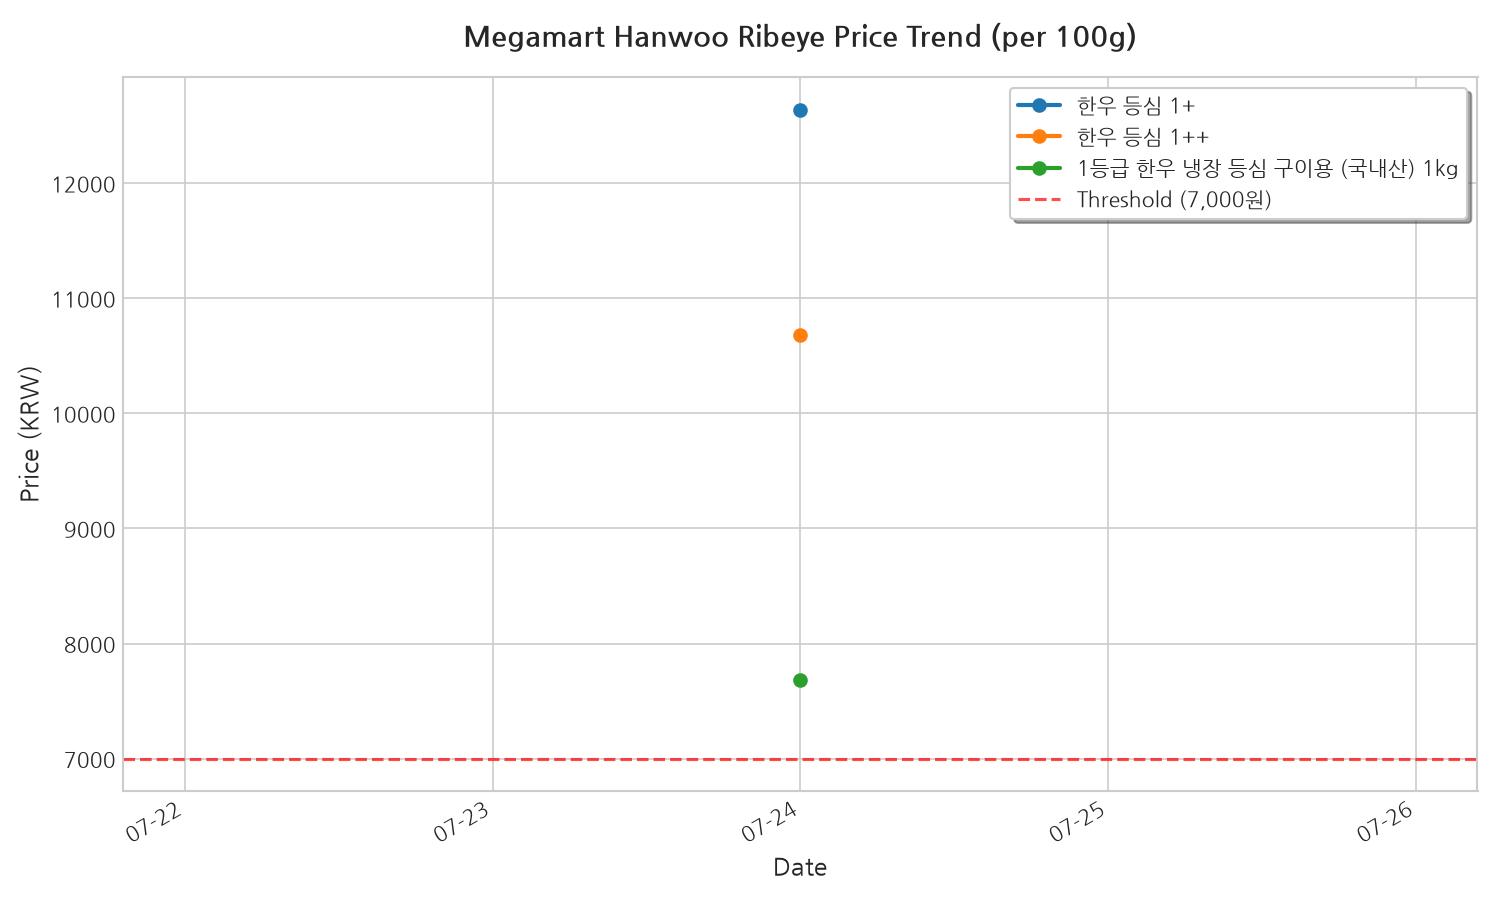
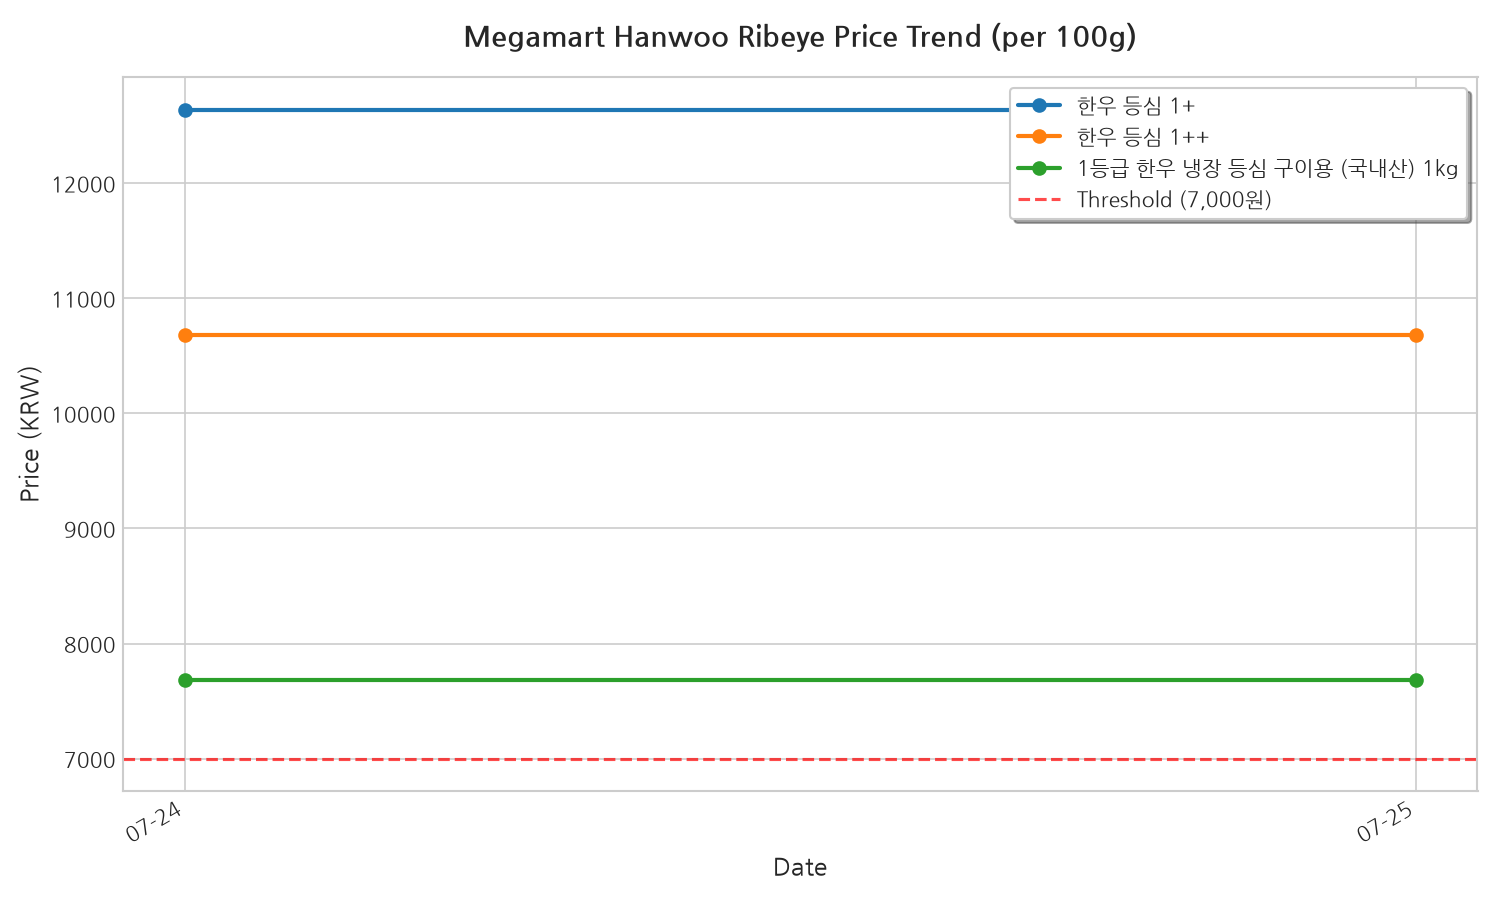
chore: Update price history and trend chart

diff --git a/dashboard.html b/dashboard.html
@@ -195,7 +195,7 @@
 
     <script>
         // Data injected by python script
-        const PRICE_DATA = [{"date": "2026-07-24", "product_name": "한우 등심 1+등급 구이용 (국내산) 100g", "price": 12640}, {"date": "2026-07-24", "product_name": "한우 등심 1++등급 구이용 (국내산) 100g", "price": 10680}, {"date": "2026-07-24", "product_name": "1등급 한우 냉장 등심 구이용 (국내산) 1kg", "price": 7680}];
+        const PRICE_DATA = [{"date": "2026-07-24", "product_name": "한우 등심 1+등급 구이용 (국내산) 100g", "price": 12640}, {"date": "2026-07-24", "product_name": "한우 등심 1++등급 구이용 (국내산) 100g", "price": 10680}, {"date": "2026-07-24", "product_name": "1등급 한우 냉장 등심 구이용 (국내산) 1kg", "price": 7680}, {"date": "2026-07-25", "product_name": "한우 등심 1+등급 구이용 (국내산) 100g", "price": 12640}, {"date": "2026-07-25", "product_name": "한우 등심 1++등급 구이용 (국내산) 100g", "price": 10680}, {"date": "2026-07-25", "product_name": "1등급 한우 냉장 등심 구이용 (국내산) 1kg", "price": 7680}];
 
         // Group data by product
         const products = [...new Set(PRICE_DATA.map(item => item.product_name))];

diff --git a/README.md b/README.md
@@ -8,9 +8,9 @@
 * **설정 가격 기준**: 100g 당 **7,000원 이하**일 때 이메일 알림 발송
 
 ### 📌 최근 수집된 가격
-- **한우 등심 1+등급 구이용 (국내산) 100g**: 100g당 12,640원 (현재 판매가: 12,640원/100g) (업데이트: 2026-07-24)
-- **한우 등심 1++등급 구이용 (국내산) 100g**: 100g당 10,680원 (현재 판매가: 10,680원/100g) (업데이트: 2026-07-24)
-- **1등급 한우 냉장 등심 구이용 (국내산) 1kg**: 100g당 7,680원 (현재 판매가: 76,800원/1000g) (업데이트: 2026-07-24)
+- **한우 등심 1+등급 구이용 (국내산) 100g**: 100g당 12,640원 (현재 판매가: 12,640원/100g) (업데이트: 2026-07-25)
+- **한우 등심 1++등급 구이용 (국내산) 100g**: 100g당 10,680원 (현재 판매가: 10,680원/100g) (업데이트: 2026-07-25)
+- **1등급 한우 냉장 등심 구이용 (국내산) 1kg**: 100g당 7,680원 (현재 판매가: 76,800원/1000g) (업데이트: 2026-07-25)
 
 ### 📈 가격 추이 그래프
 ![한우 등심 가격 추이](history/price_trend.png)
